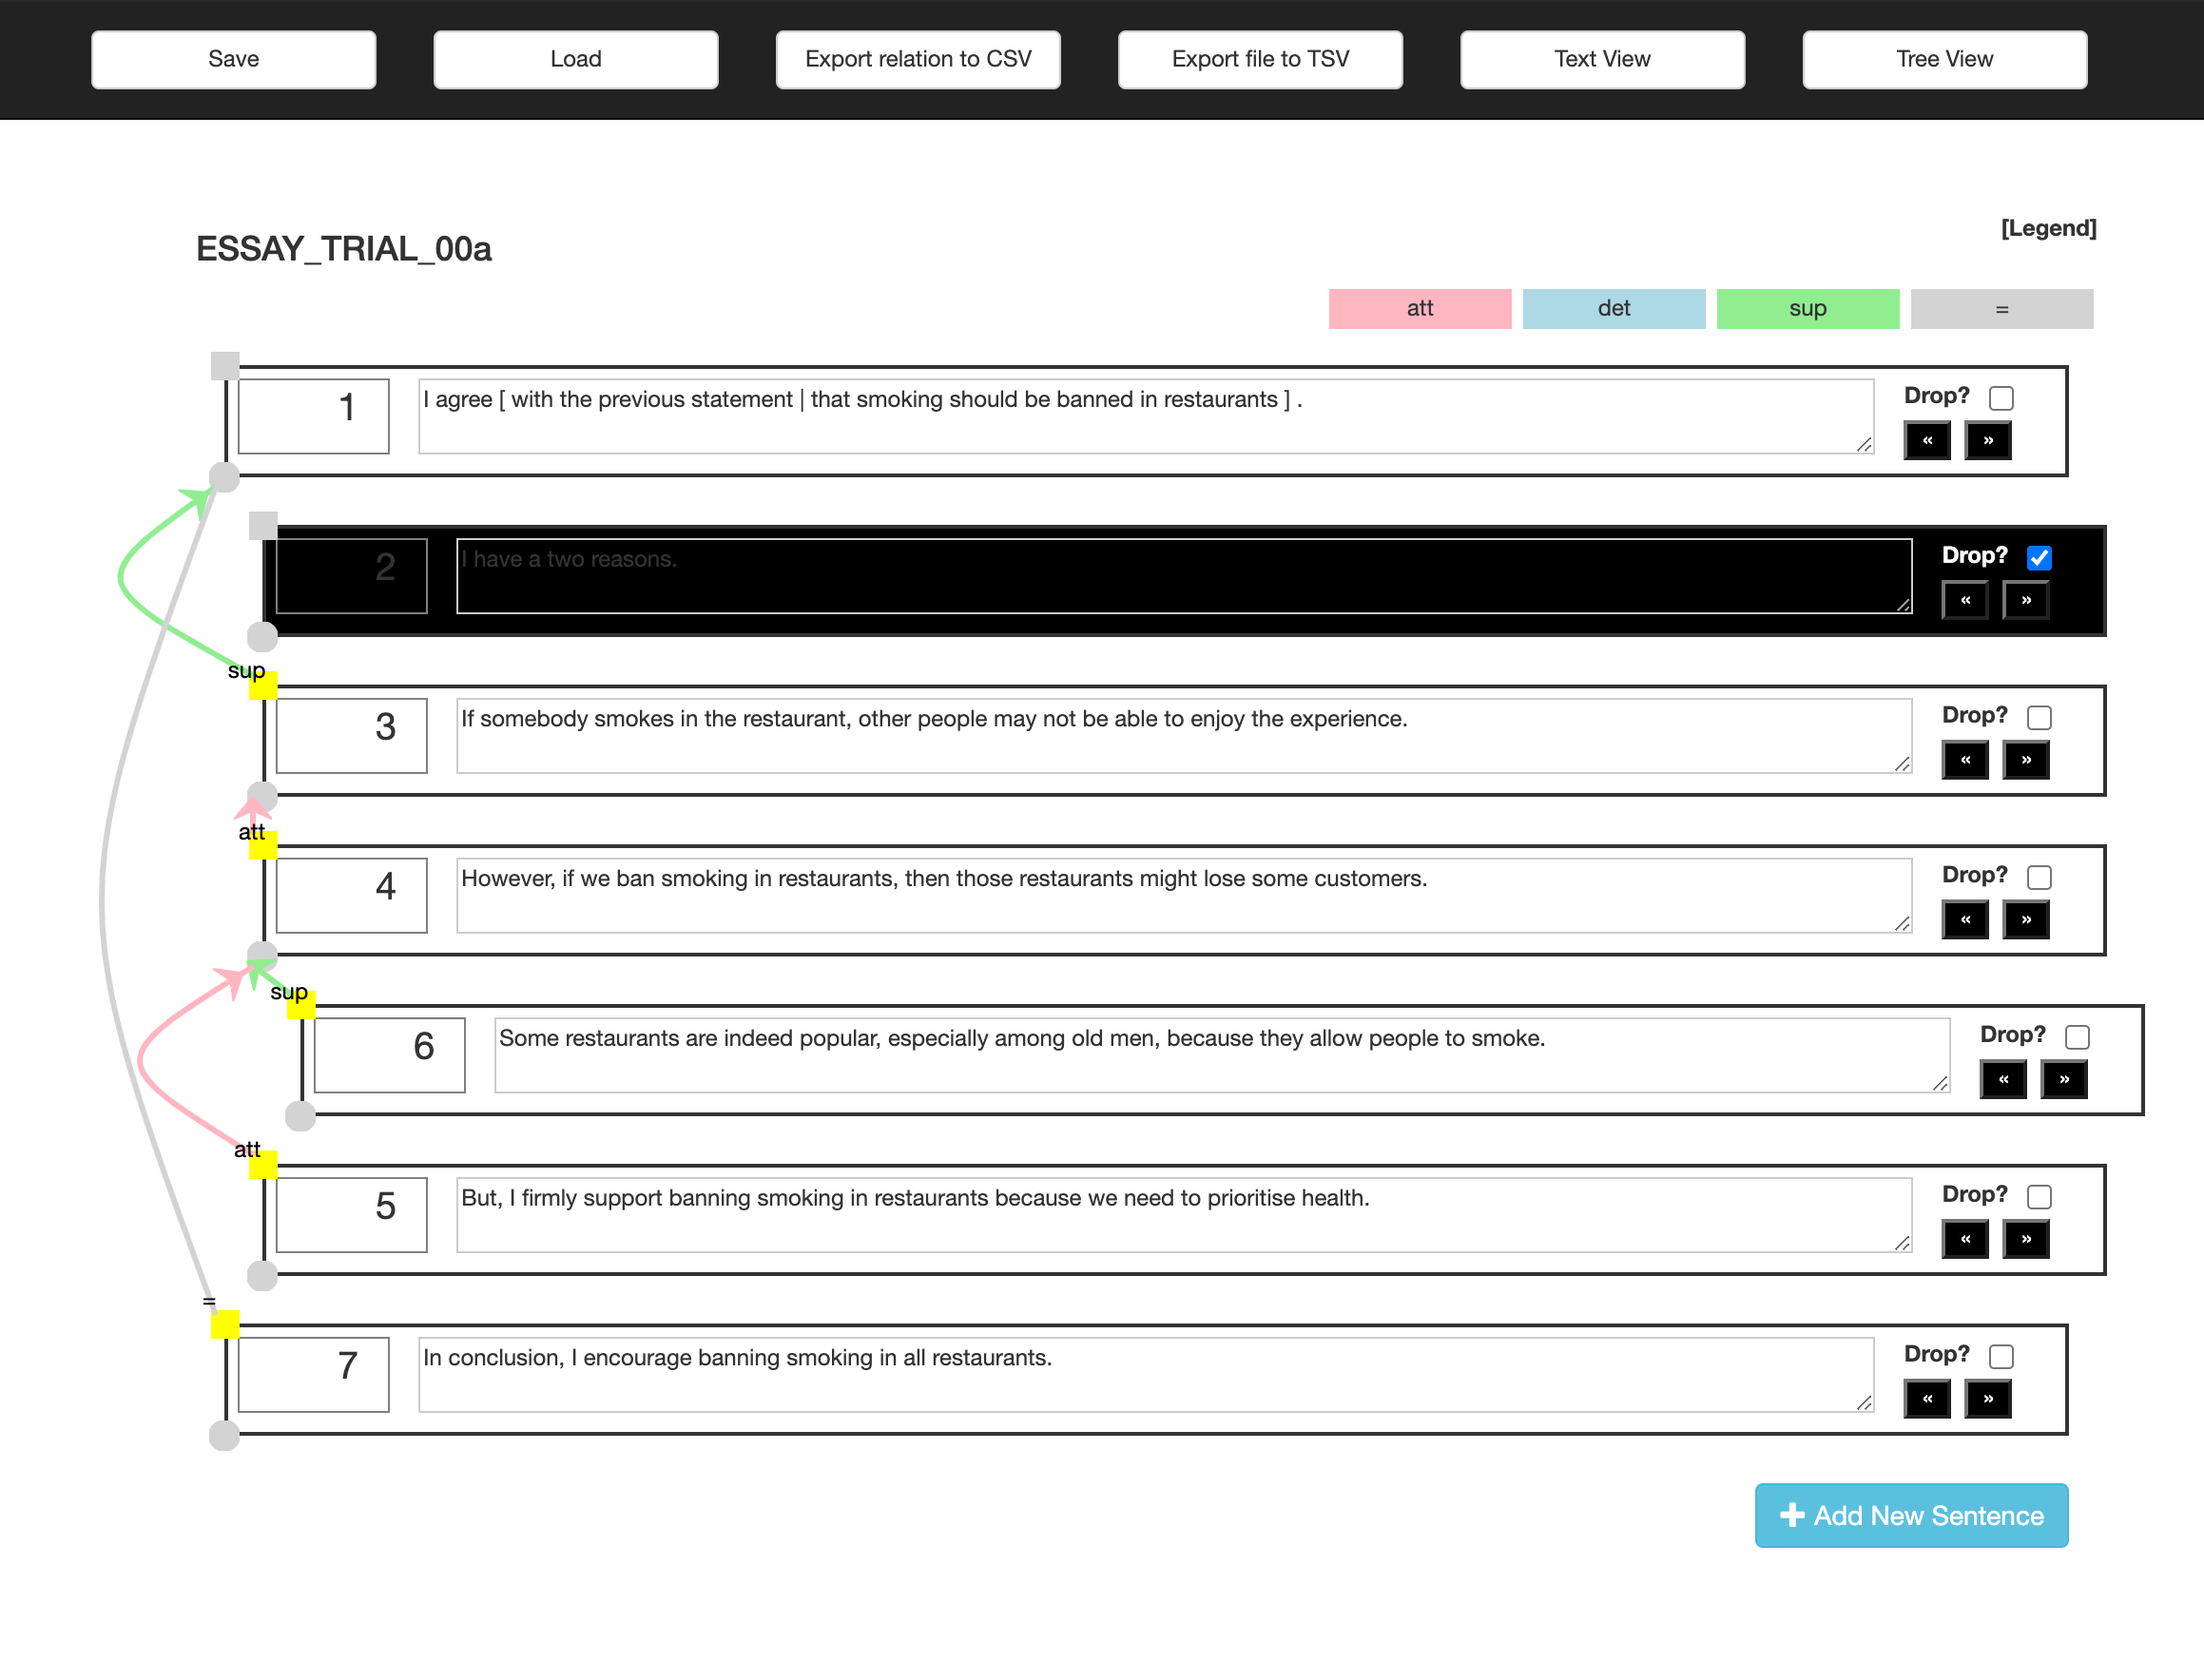
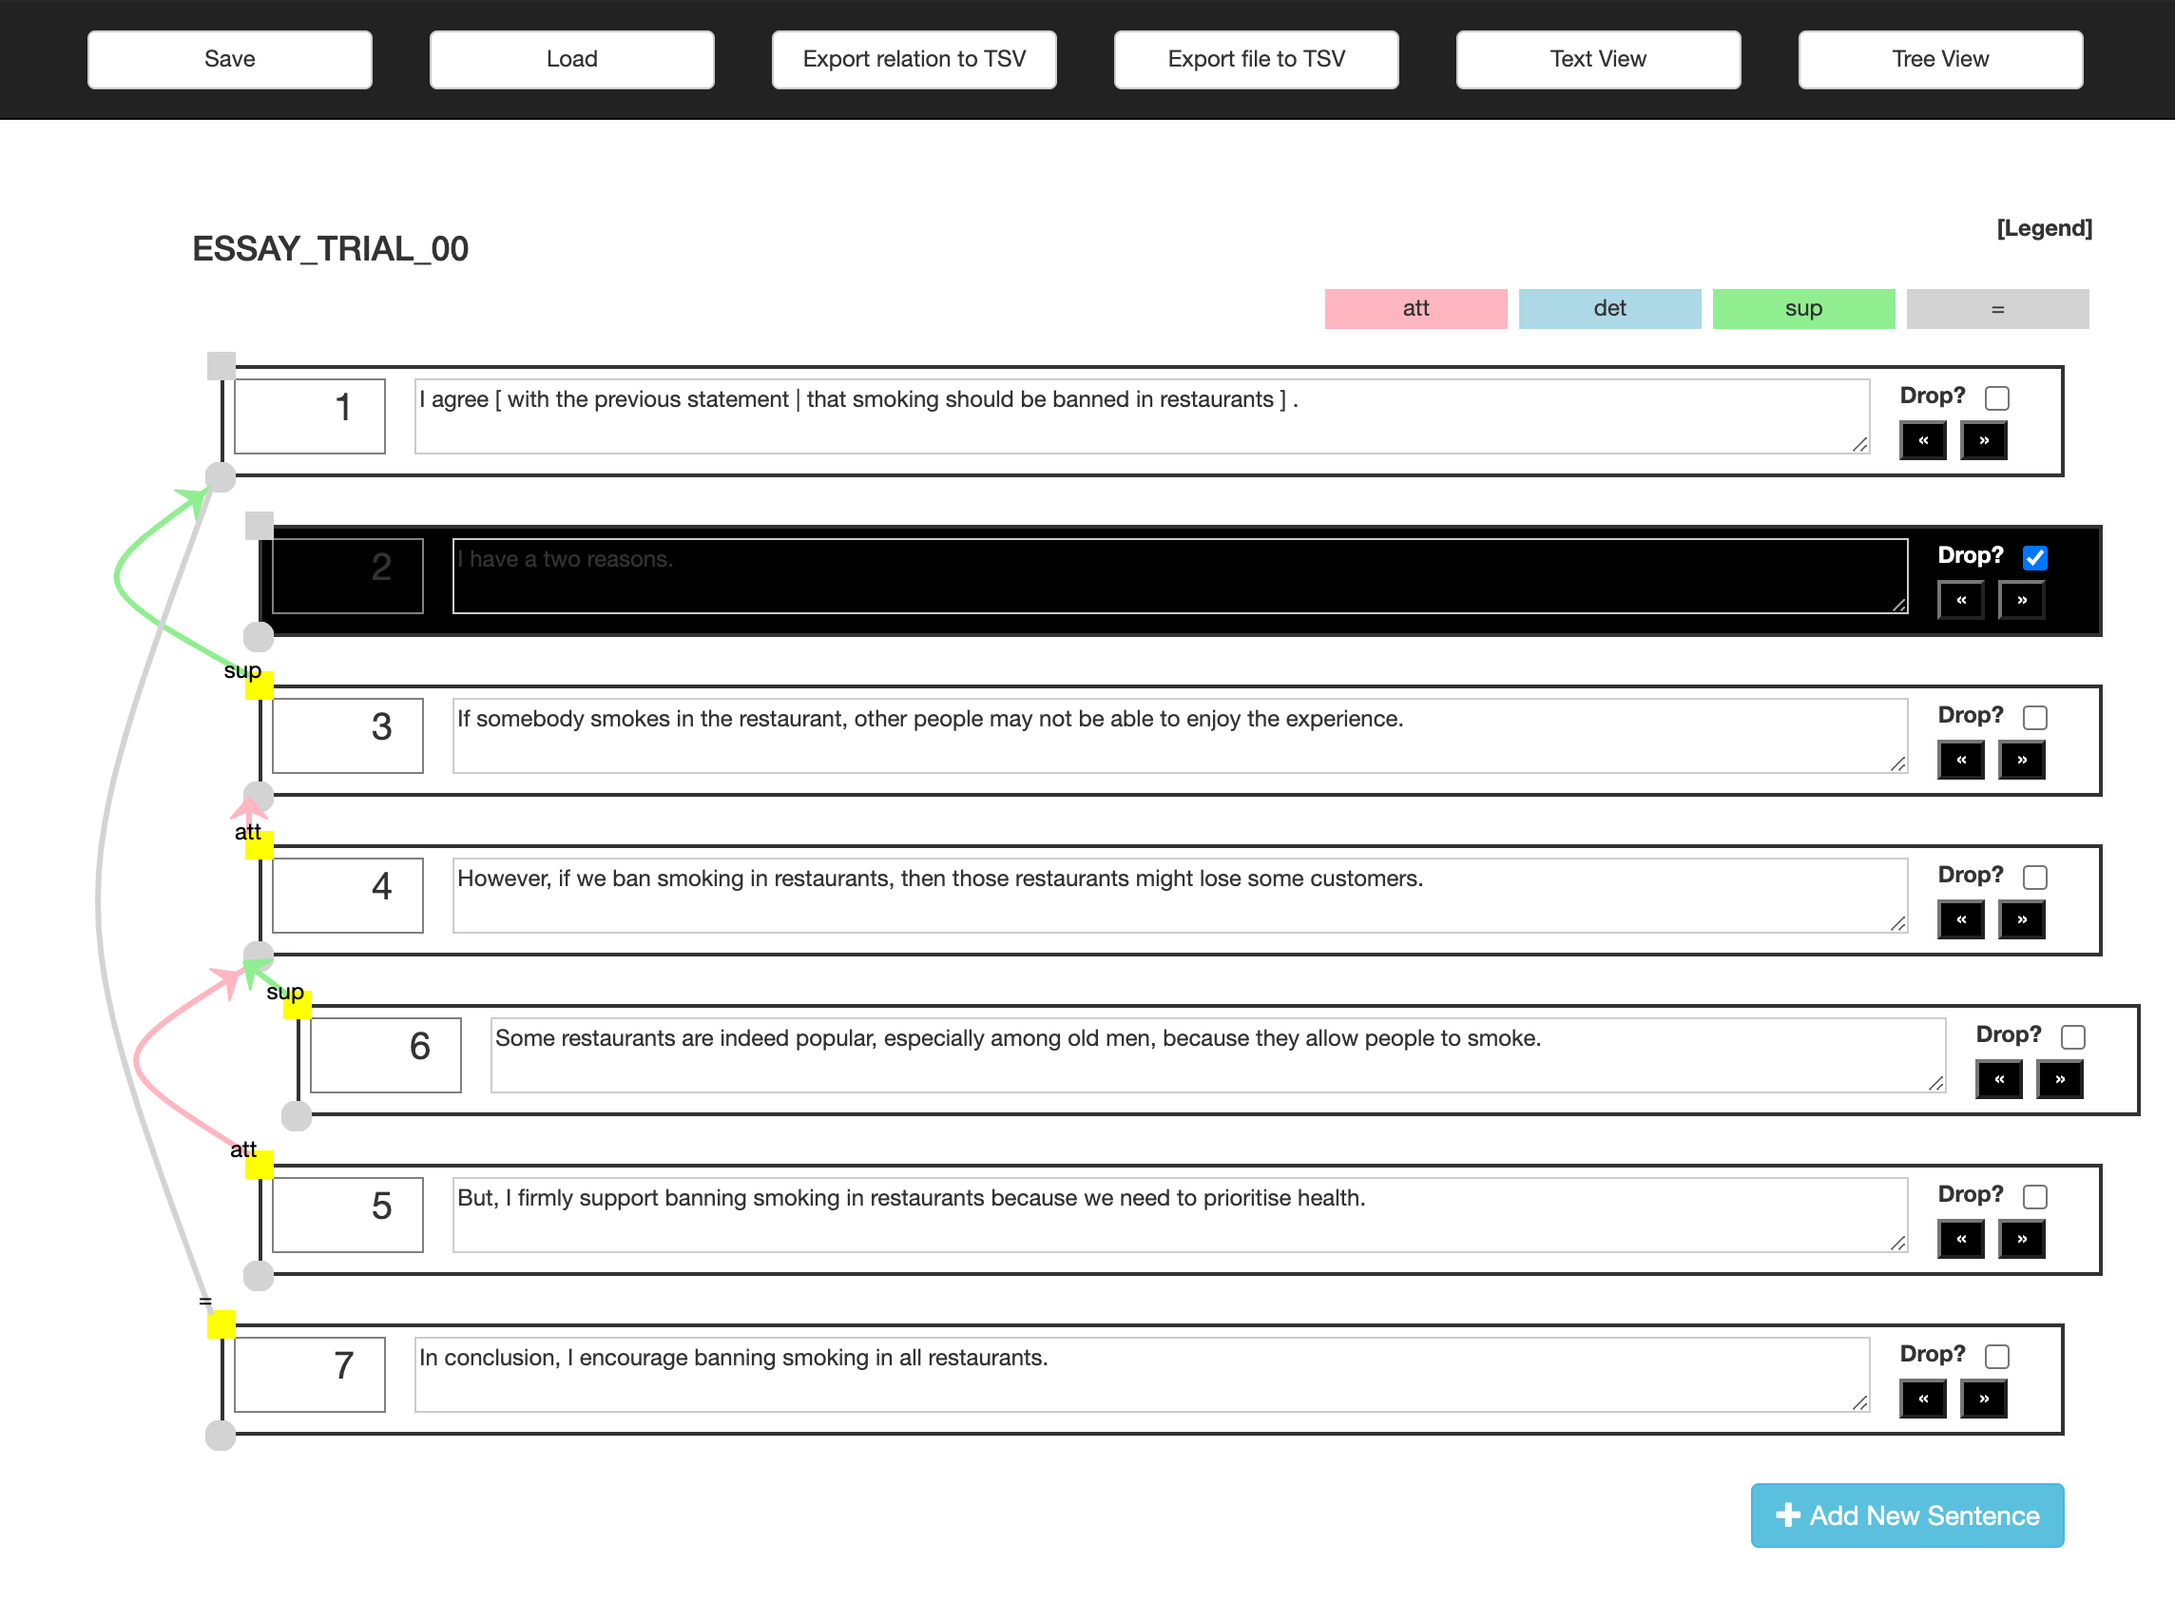
minor naming change:

diff --git a/js/annotation.js b/js/annotation.js
@@ -516,8 +516,8 @@ $("#rel_to_excel").on('click', function(event) {
 
         // convert to csv format
         var filename = $(".essay-code .col-md-10 #essay_code").text().trim();
-        text = relationToCSV(Nsentences, filename)
-        download(filename+".csv", text);
+        text = relationToTSV(Nsentences, filename, "\t")
+        download(filename+"_rels.tsv", text);
 
         alert("Refresh the page after the download is complete!")
     }
@@ -1052,22 +1052,22 @@ function adjMatrixRelLabel(numberOfSentences) {
 }
 
 /**
- * Format annotated relations into excel (csv) output
+ * Format annotated relations into excel (tsv) output
  * @param{int} numberOfSentences
  * @param{string} essayCode
  */
-function relationToCSV(numberOfSentences, essayCode) {
+function relationToTSV(numberOfSentences, essayCode, separator) {
     adjMatrix = adjMatrixRelLabel(numberOfSentences);
     if (mode=="debug") {
         console.log("RELATION MATRIX");
         console.log(adjMatrix);
         console.log("------\n");
     }
-    var outputText = "essay code, source, target, relation\n";
+    var outputText = "essay code" + separator + "source" + separator + "target" + separator + "relation\n";
     for (var i=1; i < numberOfSentences; i++) {
         for (var j=1; j < numberOfSentences; j++) {
             if (i!=j) { 
-                outputText += essayCode + "," + i + "," + j + "," + adjMatrix[i][j] + "\n";
+                outputText += essayCode + separator + i + separator + j + separator + adjMatrix[i][j] + "\n";
             }
         }
     }

diff --git a/sample_annotated/ESSAY_TRIAL_00-annotated.html b/sample_annotated/ESSAY_TRIAL_00-annotated.html
@@ -1,5 +1,5 @@
 <ul class="logging hide">
-<li>{"timestamp":"2021-2-17 14:28:44","actionType":"Load","description":"ESSAY_TRIAL_00a.txt"}</li>
+<li>{"timestamp":"2021-2-17 14:28:44","actionType":"Load","description":"ESSAY_TRIAL_00.txt"}</li>
 <li>{"timestamp":"2021-2-17 14:28:45","actionType":"Indent-right","description":2}</li>
 <li>{"timestamp":"2021-2-17 14:28:46","actionType":"Indent-right","description":3}</li>
 <li>{"timestamp":"2021-2-17 14:28:47","actionType":"Indent-right","description":4}</li>
@@ -30,7 +30,7 @@
  <div class="row essay-code"> 
  	 <div class="row"> 
  	 	 <div class="col-md-10"> 
- 	 	 	 <h4 id="essay_code"> ESSAY_TRIAL_00a </h4> 
+ 	 	 	 <h4 id="essay_code"> ESSAY_TRIAL_00 </h4> 
  	 	 </div> 
  	 	 <div class="col-md-2 legend"> 
  	 	 	 <p> [Legend] </p> 

diff --git a/index.html b/index.html
@@ -56,7 +56,7 @@
                     </li>
                     <li>
                         <a> <label href="" id="rel_to_excel" class="btn btn-default btn-file"> 
-                                Export relation to CSV
+                                Export relation to TSV
                             </label>
                         </a>   
                     </li>

diff --git a/README.md b/README.md
@@ -53,7 +53,7 @@ In conclusion, I encourage banning smoking in all restaurants.
 ## Update!!
 - ```2021/01/21```: There is a new ```Add New Sentence``` button at the bottom of the ```normal view```. This button is dedicated for educational uses. For example, a teacher asks a student to add more sentences to support their argument. Another example is when the teacher asks the student to merge two or more sentences as a single opinion. In this case, the student may "drop" those two or more sentences, and then create a new merged sentence. 
 - ```2021/01/21```: You can now shrink and enlarge the hierarchical view
-- ```2020/10/03```: TIARA can now open ```.tsv``` file that results from ```Format file to excel``` menu. Please note that the indentation and history do not present in the ```.tsv``` format.
+- ```2020/10/03```: TIARA can now open ```.tsv``` file that results from ```Format file to TSV``` menu. Please note that the indentation and history do not present in the ```.tsv``` format.
 
 ## License 
 [MIT](https://opensource.org/licenses/MIT)
